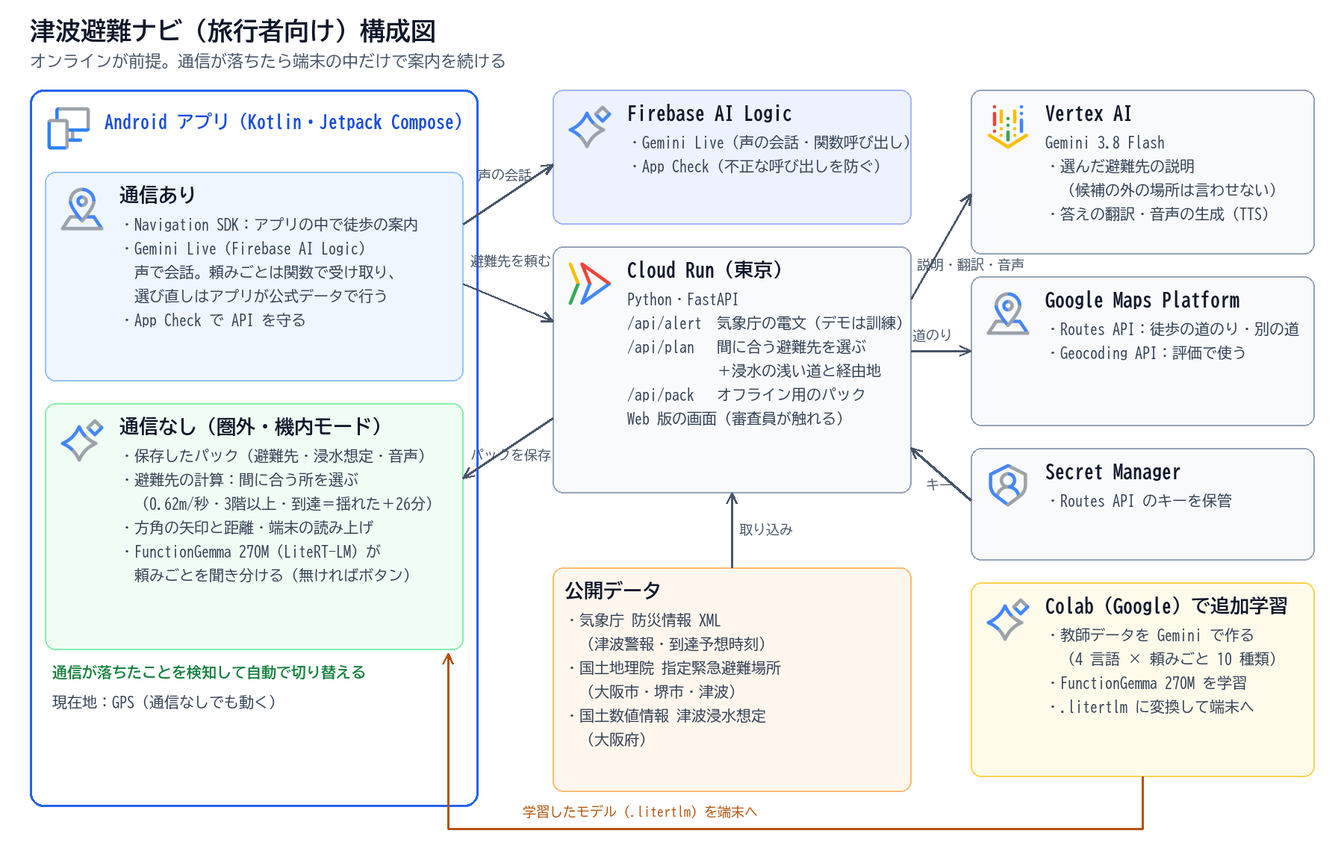
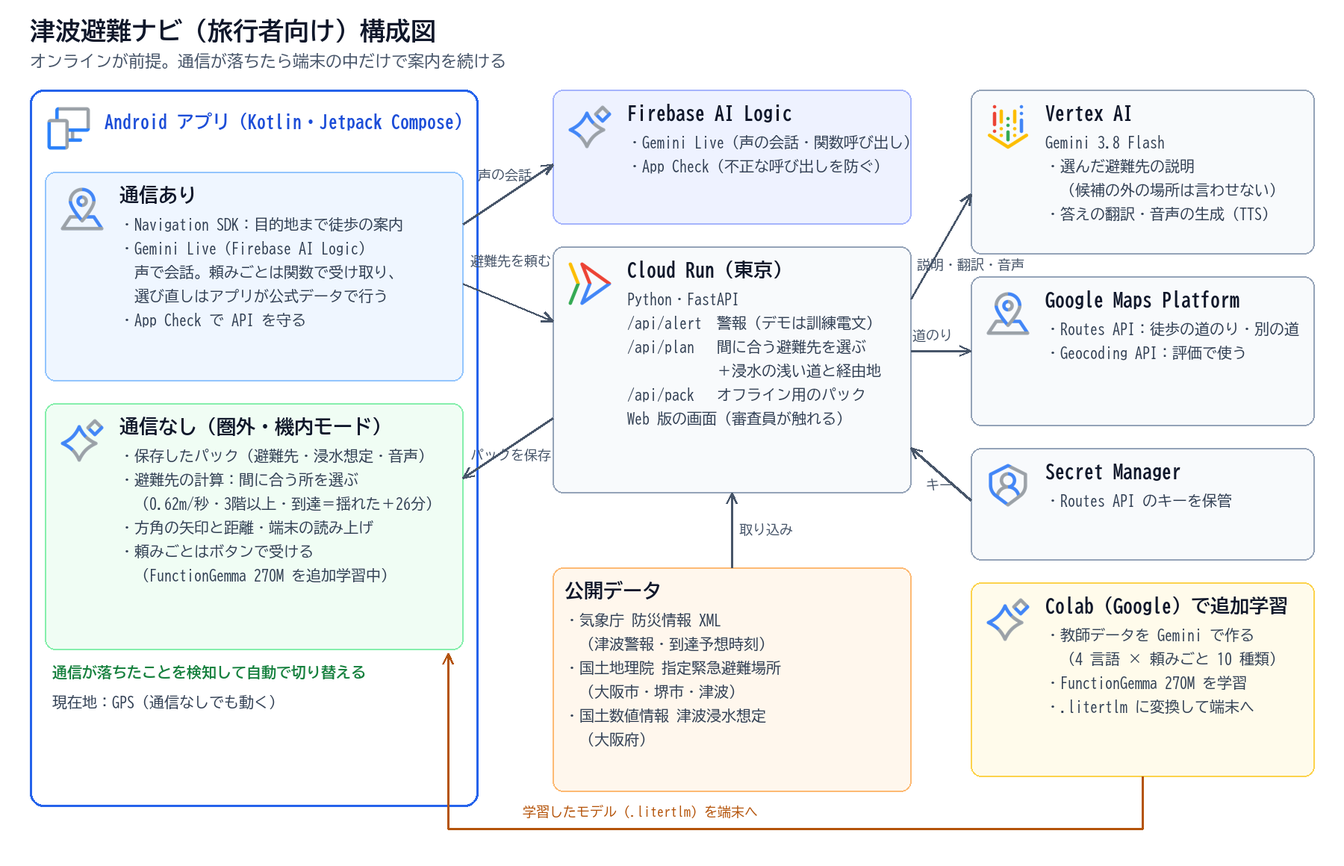
docs: 使い方ごとの動き（modes.md）・FunctionGemma の評価の物差しと採点プログラム・資料と構成図を実際の中身に合わせる

Changed region(s): [[0.0933, 0.6207, 0.3111, 0.6828], [0.5289, 0.3414, 0.6533, 0.4034], [0.1867, 0.2483, 0.3111, 0.2793]]

diff --git a/backend/finetune/score.py b/backend/finetune/score.py
@@ -1,0 +1,123 @@
+"""FunctionGemma の予測を採点する（docs/finetune-eval.md の物差し）。採点の仕方は変えない。学習する人は予測のファイルを出すだけ。
+
+使い方（backend/ で）:
+  python -m finetune.score finetune/data/test.jsonl predictions.jsonl
+  python -m finetune.score finetune/data/test.jsonl --baseline      # キーワード方式（比べる相手）だけを採点
+
+predictions.jsonl は test.jsonl と同じ順・同じ行数で、1 行 = {"name": "reselect", "args": {"mobility": "slow"}, "latency_ms": 820}
+（name が読めなかった時は null。latency_ms はタブレットで測った時だけ入れる）
+"""
+import json
+import re
+import sys
+from collections import defaultdict
+
+THRESHOLDS = {
+    "overall": 0.90,
+    "per_label": 0.85,
+    "per_lang": 0.85,
+    "critical_max": 0.02,
+    "false_action_max": 0.03,
+    "parse_fail_max": 0.01,
+    "p95_latency_ms": 3000,
+}
+CRITICAL_GOLD = {("reselect", "slow"), ("reselect", "wheelchair"), ("injured", None), ("road_blocked", None)}
+
+KEYWORDS = [
+    ("reselect", {"mobility": "wheelchair"}, r"wheelchair|stroller|pram|cane|stairs|車いす|車椅子|ベビーカー|杖|階段|轮椅|婴儿车|楼梯|휠체어|유모차|계단"),
+    ("reselect", {"mobility": "slow"}, r"can'?t (walk|run)|cannot (walk|run)|slow|elderly|old|child|kid|baby|pregnan|走れ|歩けな|遅い|子ども|子供|高齢|妊娠|走不|走不动|老人|孩子|慢|못 (걷|뛰)|느려|아이|노인|임신"),
+    ("road_blocked", {}, r"block|closed|flood|can'?t pass|ふさが|塞が|通れ|冠水|堵|过不去|淹|막혔|못 지나|침수"),
+    ("ask_floor", {}, r"floor|how high|upstairs|何階|どこまで上|几楼|多高|몇 층|얼마나 높"),
+    ("lost_family", {}, r"lost|can'?t find|separated|missing|はぐれ|見つから|いない|走散|找不到|잃어|못 찾|헤어"),
+    ("injured", {}, r"injur|hurt|bleed|blood|pain|sick|けが|怪我|血|痛|具合|受伤|流血|疼|다쳤|피|아파"),
+    ("when_to_return", {}, r"go back|return|hotel|luggage|how long|戻|帰|荷物|いつまで|回去|行李|多久|돌아가|짐|언제까지"),
+    ("repeat", {}, r"again|repeat|didn'?t (hear|understand)|pardon|what\?|もう一度|聞こえ|分から|再说|没听|다시|못 들"),
+    ("reselect", {"mobility": "normal"}, r"another|other place|somewhere else|different|full|crowded|別の|他の|混ん|满|别的|其他|다른|붐"),
+]
+
+
+def keyword_baseline(text: str) -> tuple[str, dict]:
+    low = text.lower()
+    for name, args, pattern in KEYWORDS:
+        if re.search(pattern, low):
+            return name, args
+    return "other", {}
+
+
+def mobility(name: str | None, args: dict | None) -> str | None:
+    return (args or {}).get("mobility") if name == "reselect" else None
+
+
+def score(gold: list[dict], preds: list[dict]) -> dict:
+    assert len(gold) == len(preds), f"行数が違う: test {len(gold)} / 予測 {len(preds)}"
+    by_label, by_lang = defaultdict(list), defaultdict(list)
+    critical = false_action = parse_fail = 0
+    n_critical_gold = n_other_gold = 0
+    latencies = []
+    for g, p in zip(gold, preds):
+        pname, pargs = p.get("name"), p.get("args") or {}
+        ok = pname == g["name"] and pargs == g["args"]
+        label = g["name"] + (f"({g['args']['mobility']})" if g["args"] else "")
+        by_label[label].append(ok)
+        by_lang[g["lang"]].append(ok)
+        if not pname:
+            parse_fail += 1
+        gkey = (g["name"], mobility(g["name"], g["args"]))
+        if gkey in CRITICAL_GOLD:
+            n_critical_gold += 1
+            if pname == "other" or (pname == "reselect" and mobility(pname, pargs) == "normal"):
+                critical += 1
+        if g["name"] == "other":
+            n_other_gold += 1
+            if pname not in (None, "other", "repeat"):
+                false_action += 1
+        if p.get("latency_ms") is not None:
+            latencies.append(p["latency_ms"])
+    all_ok = [x for v in by_lang.values() for x in v]
+    latencies.sort()
+    p95 = latencies[int(0.95 * (len(latencies) - 1))] if latencies else None
+    return {
+        "overall": sum(all_ok) / len(all_ok),
+        "per_label": {k: sum(v) / len(v) for k, v in sorted(by_label.items())},
+        "per_lang": {k: sum(v) / len(v) for k, v in sorted(by_lang.items())},
+        "critical_rate": critical / max(1, n_critical_gold),
+        "false_action_rate": false_action / max(1, n_other_gold),
+        "parse_fail_rate": parse_fail / len(gold),
+        "p95_latency_ms": p95,
+        "n": len(gold),
+    }
+
+
+def report(name: str, r: dict, baseline: dict | None) -> str:
+    t = THRESHOLDS
+    mark = lambda ok: "OK" if ok else "NG"
+    lines = [f"## {name}（{r['n']} 件）", "", "| 指標 | 値 | 成功の線 | 判定 |", "|---|---|---|---|"]
+    lines.append(f"| 正答率（全体） | {r['overall']:.1%} | {t['overall']:.0%} 以上・キーワード方式より上 | "
+                 f"{mark(r['overall'] >= t['overall'] and (baseline is None or r['overall'] > baseline['overall']))} |")
+    worst_label = min(r["per_label"].items(), key=lambda kv: kv[1])
+    lines.append(f"| 頼みごとごと（一番低いもの） | {worst_label[0]} {worst_label[1]:.1%} | どれも {t['per_label']:.0%} 以上 | {mark(worst_label[1] >= t['per_label'])} |")
+    worst_lang = min(r["per_lang"].items(), key=lambda kv: kv[1])
+    lines.append(f"| 言語ごと（一番低いもの） | {worst_lang[0]} {worst_lang[1]:.1%} | どれも {t['per_lang']:.0%} 以上 | {mark(worst_lang[1] >= t['per_lang'])} |")
+    lines.append(f"| 危ない間違い | {r['critical_rate']:.1%} | {t['critical_max']:.0%} 以下 | {mark(r['critical_rate'] <= t['critical_max'])} |")
+    lines.append(f"| 関係ない言葉で動いてしまう | {r['false_action_rate']:.1%} | {t['false_action_max']:.0%} 以下 | {mark(r['false_action_rate'] <= t['false_action_max'])} |")
+    lines.append(f"| 形の崩れ | {r['parse_fail_rate']:.1%} | {t['parse_fail_max']:.0%} 以下 | {mark(r['parse_fail_rate'] <= t['parse_fail_max'])} |")
+    lat = r["p95_latency_ms"]
+    lines.append(f"| 速さ（遅いほうから 5%） | {'未計測' if lat is None else f'{lat:.0f} ms'} | {t['p95_latency_ms']} ms 以内 | {'—' if lat is None else mark(lat <= t['p95_latency_ms'])} |")
+    lines += ["", "頼みごとごと: " + " / ".join(f"{k} {v:.0%}" for k, v in r["per_label"].items()),
+              "言語ごと: " + " / ".join(f"{k} {v:.0%}" for k, v in r["per_lang"].items()), ""]
+    return "\n".join(lines)
+
+
+def main() -> None:
+    gold = [json.loads(l) for l in open(sys.argv[1], encoding="utf-8")]
+    base_preds = [dict(zip(("name", "args"), keyword_baseline(g["text"]))) for g in gold]
+    base = score(gold, base_preds)
+    out = [report("キーワード方式（比べる相手）", base, None)]
+    if len(sys.argv) > 2 and sys.argv[2] != "--baseline":
+        preds = [json.loads(l) for l in open(sys.argv[2], encoding="utf-8")]
+        out.append(report("FunctionGemma", score(gold, preds), base))
+    print("\n".join(out))
+
+
+if __name__ == "__main__":
+    main()

diff --git a/backend/finetune/make_notebook.py b/backend/finetune/make_notebook.py
@@ -95,7 +95,7 @@ def evaluate(model, tok, ds, label):
         t0 = time.time()
         out = pipe(x["prompt"], max_new_tokens=48, do_sample=False, skip_special_tokens=False)[0]["generated_text"][len(x["prompt"]):]
         name, args = parse_call(out)
-        rows.append({"lang": x["lang"], "ok": name == x["name"] and json.dumps(args, sort_keys=True) == x["args"],
+        rows.append({"lang": x["lang"], "name": name, "args": args, "ok": name == x["name"] and json.dumps(args, sort_keys=True) == x["args"],
                      "expected": f'{x["name"]} {x["args"]}', "got": f"{name} {args}", "sec": time.time() - t0})
     df = pd.DataFrame(rows)
     print(label, "全体の正答率:", round(df.ok.mean() * 100, 1), "%")
@@ -148,6 +148,11 @@ print("1 件あたりの時間（Colab の GPU）:", round(trained_df.sec.mean()
 print("\\n間違えた例（学習後）")
 print(trained_df[~trained_df.ok].head(20).to_string())
 table.to_csv("accuracy_by_lang.csv")
+# backend/finetune/score.py で採点するための予測（test.jsonl と同じ順）
+with open("predictions.jsonl", "w", encoding="utf-8") as f:
+    for r in trained_df.itertuples():
+        f.write(json.dumps({"name": r.name, "args": r.args}, ensure_ascii=False) + "
+")
 trained_df.to_json("trained_eval.json", force_ascii=False)"""),
     ("md", "## 7. スマホで動く形（.litertlm）に変換して Google ドライブに保存"),
     ("code", """!pip uninstall -y tensorflow
@@ -200,7 +205,7 @@ print(os.listdir(out_dir))"""),
 drive.mount('/content/drive')
 !mkdir -p /content/drive/MyDrive/tsunami-navi/
 !cp /content/litertlm/*.litertlm /content/drive/MyDrive/tsunami-navi/
-!cp accuracy_by_lang.csv trained_eval.json /content/drive/MyDrive/tsunami-navi/
+!cp accuracy_by_lang.csv trained_eval.json predictions.jsonl /content/drive/MyDrive/tsunami-navi/
 !ls -la /content/drive/MyDrive/tsunami-navi/"""),
     ("md", "終わったら、Google ドライブの `tsunami-navi` フォルダ（`.litertlm`・正答率の表）を Claude Code に知らせる。"),
 ]

diff --git a/docs/tools/make_architecture.py b/docs/tools/make_architecture.py
@@ -61,7 +61,7 @@ d.rounded_rectangle((40, 120, 640, 1080), radius=18, outline="#2563EB", width=3)
 icon("mobile", 56, 136)
 d.text((140, 150), "Android アプリ（Kotlin・Jetpack Compose）", font=f(24, True), fill="#1D4ED8")
 box(60, 230, 560, 280, "通信あり", [
-    "・Navigation SDK：アプリの中で徒歩の案内",
+    "・Navigation SDK：目的地まで徒歩の案内",
     "・Gemini Live（Firebase AI Logic）",
     "　声で会話。頼みごとは関数で受け取り、",
     "　選び直しはアプリが公式データで行う",
@@ -72,8 +72,8 @@ box(60, 540, 560, 330, "通信なし（圏外・機内モード）", [
     "・避難先の計算：間に合う所を選ぶ",
     "　（0.62m/秒・3階以上・到達＝揺れた＋26分）",
     "・方角の矢印と距離・端末の読み上げ",
-    "・FunctionGemma 270M（LiteRT-LM）が",
-    "　頼みごとを聞き分ける（無ければボタン）",
+    "・頼みごとはボタンで受ける",
+    "　（FunctionGemma 270M を追加学習中）",
 ], key="ai", fill="#F0FDF4", edge="#86EFAC")
 d.text((70, 890), "通信が落ちたことを検知して自動で切り替える", font=f(20, True), fill="#15803D")
 d.text((70, 930), "現在地：GPS（通信なしでも動く）", font=f(20), fill="#334155")
@@ -81,7 +81,7 @@ d.text((70, 930), "現在地：GPS（通信なしでも動く）", font=f(20), f
 # Cloud Run（中央）
 box(740, 330, 480, 330, "Cloud Run（東京）", [
     "Python・FastAPI",
-    "/api/alert  気象庁の電文（デモは訓練）",
+    "/api/alert  警報（デモは訓練電文）",
     "/api/plan   間に合う避難先を選ぶ",
     "            ＋浸水の浅い道と経由地",
     "/api/pack   オフライン用のパック",

diff --git a/docs/submission/product-doc.md b/docs/submission/product-doc.md
@@ -15,14 +15,14 @@
 - 災害時は通信がつながりにくくなる。能登半島地震（2024年）では最大 839 の携帯基地局が止まった。データ通信を持たない旅行者もいる
 
 ## 4. 解決策（何ができるか）
-警報が出たとき、旅行者の今いる場所から、**市町村が決めた津波の避難場所のうち、間に合う所**を選び、母語の声で案内する。通信が落ちても、端末の中だけで案内を続ける。
+強い揺れを感じた時や警報が出た時、旅行者の今いる場所から、**市町村が決めた津波の避難場所のうち、間に合う所**を選び、英語の声と画面で案内する（画面は英語＋日本語。Gemini Live では相手の言語で話せる）。通信が落ちても、端末の中だけで案内を続ける。使い方ごとの動きは docs/modes.md
 
 | 場面 | できること |
 |---|---|
 | 旅行の前（宿の Wi-Fi） | 行き先（大阪湾岸）のデータ一式を端末に保存（避難先 2,335 件・浸水想定・答えの音声、約 1MB） |
-| 警報（通信あり） | 気象庁の到達予想時刻と、Routes API の道のりから「間に合う避難先」を選ぶ。浸水想定の深い所を避けた道を選び、Navigation SDK でアプリの中で徒歩の案内【Navigation SDK は実装中】。Gemini Live に話しかけると、選び直しや質問に声で答える |
+| 警報（通信あり） | アプリが 15 秒ごとに警報を確かめ、出ていれば自動で案内を始める（デモは気象庁の訓練電文の流し直し）。到達予想時刻と Routes API の道のりから「間に合う避難先」を選ぶ。Navigation SDK でアプリの中で目的地まで徒歩の案内。Gemini Live に話しかけると、選び直しや質問に声で答える |
 | 圏外・機内モード | 「揺れた」ボタンだけで、保存したデータから 3 秒以内に避難先を出し、方角の矢印と距離、声で案内する。到達時刻は「揺れた時刻＋26 分」（大阪府の想定で一番早い値）を目安に使う |
-| 困ったとき | 「子どもが走れない」と言うと、歩く速さを 0.5m/秒にして、近い避難ビルに選び直す。圏外では、端末の中の小さい AI（FunctionGemma を追加学習）かボタンで受ける |
+| 困ったとき | 「子どもが走れない」と言うと（またはボタン）、歩く速さを 0.5m/秒にして、近い避難ビルに選び直す。圏外ではボタンで受ける（端末の中の小さい AI＝FunctionGemma を追加学習中。評価の物差しは docs/finetune-eval.md） |
 
 決めごと（安全のため）
 - 避難先を AI に決めさせない。名前・場所・階は公式データの値だけを使い、AI は説明と頼みごとの聞き分けだけをする
@@ -36,8 +36,8 @@
 | Vertex AI（Gemini 3.8 Flash） | 選んだ避難先の説明・答えの翻訳・音声の生成 | 候補の外の場所を言わせない作り（候補の id 以外を使ったら捨てて決まった文にする）。AI Studio ではなく Vertex AI にしたのは、GCP のクレジットが効き、キーをアプリに置かないため |
 | Firebase AI Logic（Gemini Live）＋ App Check | 通信がある時の声の会話。頼みごとは関数で受け取り、アプリが公式データで選び直した結果だけを話す | アプリから直接、低い遅れで声の会話ができる。キーを埋めず App Check で守れる。比べた案：Cloud Run の中継（遅れが増える） |
 | Routes API | 徒歩の道のり・別の候補の道。浸水想定の深い所を通らない道を選ぶ | 直線距離では「間に合うか」を誤る。既存の避難アプリ（広島市・三重県・横浜市）は道順と浸水の地図の重ね表示までで、浸水を避けて道を選ぶものは見つからなかった |
-| Navigation SDK | 通信がある時のアプリの中の徒歩の案内【実装中】 | Google マップに移ると会話が途切れ、事前の地域データも渡せない。案内開始時に 15〜20 分ぶんの経路を保存するので、途中で圏外になっても続く見込み |
-| FunctionGemma 270M ＋ LiteRT-LM | 圏外の時、端末の中で頼みごとを聞き分ける | 圏外では Gemini が使えない。仕事は「8 種類の頼みごとから選ぶ」だけなので小さいモデルで足り、多くの旅行者のスマホで動く（Gemma 4 E2B 約 2.5GB は多くの端末で動かない）。Gemini で 4 言語の学習データを作って追加学習した |
+| Navigation SDK | 通信がある時のアプリの中の徒歩の案内（目的地まで。浸水の浅い道を経由地で渡すのは今後） | Google マップに移ると会話が途切れ、事前の地域データも渡せない。案内開始時に 15〜20 分ぶんの経路を保存するので、途中で圏外になっても続く見込み |
+| FunctionGemma 270M ＋ LiteRT-LM | 圏外の時、端末の中で頼みごとを聞き分ける（追加学習中。今のアプリはボタン） | 圏外では Gemini が使えない。仕事は「8 種類の頼みごとから選ぶ」だけなので小さいモデルで足り、多くの旅行者のスマホで動く（Gemma 4 E2B 約 2.5GB は多くの端末で動かない）。Gemini で 4 言語の学習データを作って追加学習した |
 | Secret Manager | Routes API のキーの保管 | キーをコードに置かない |
 
 ## 6. AI をどの場面でどう使ったか・なぜその場面か（必須記入）

diff --git a/docs/finetune-eval.md b/docs/finetune-eval.md
@@ -1,0 +1,55 @@
+# FunctionGemma の評価の物差し（追加学習の担当向け）
+
+最終更新: 2026-11-09。学習のやり方（データを足す・回数を変える・モデルを変える）は自由。**物差しはこのファイルと `backend/finetune/score.py` で固定**し、何度やり直しても同じ方法で比べる。
+
+## 1. 何をできるようにするか
+圏外の時、旅行者が慌てて話す一言（英語・中国語・韓国語・日本語）を、アプリの頼みごと（関数）に聞き分ける。避難先を選ぶのはアプリ（公式データ）で、モデルは選ばない。
+
+| 関数 | 引数 | 例 |
+|---|---|---|
+| reselect | mobility = normal / slow / wheelchair | 別の場所は？／子どもが走れない／車いす |
+| ask_floor | なし | 何階まで上がる？ |
+| road_blocked | なし | 道がふさがっている |
+| lost_family | なし | 家族とはぐれた |
+| injured | なし | けがをした |
+| when_to_return | なし | いつ戻っていい？ |
+| repeat | なし | もう一度言って |
+| other | なし | 関係ない言葉 |
+
+## 2. 決まり
+| 決まり | 理由 |
+|---|---|
+| `backend/finetune/data/test.jsonl`（400 件）は**学習に使わない・中身を見て学習データを寄せない** | 使うと覚えただけで点が上がる |
+| 採点は `score.py` だけで行う。採点の仕方を変える時はチームで決めて、このファイルを直す | 毎回同じ物差しにする |
+| 比べる相手は**キーワード方式**（`score.py` に入っている）。これより良くないなら AI を使う意味が無い | 単純な方法で足りるなら、そちらを使う |
+| 学習データを足す時は、テストと別の言い方（別の指示）で作る | テストに寄せないため |
+| 追加: **人が書いたテスト**（チームで 50 件ほど、実際にスマホの音声入力を通した文）を `test_human.jsonl` に作る | Gemini が作った文だけで測ると、Gemini の癖に合わせただけになる |
+
+## 3. 指標と成功の線
+| 指標 | 中身 | 成功の線 |
+|---|---|---|
+| 正答率（全体） | 関数の名前と引数が両方合った割合 | **90% 以上**、かつキーワード方式より上 |
+| 頼みごとごと | 10 種類（reselect は引数ごと）それぞれの正答率 | どれも **85% 以上** |
+| 言語ごと | en / zh / ko / ja それぞれ | どれも **85% 以上** |
+| **危ない間違い** | 「走れない・車いす・けが・道がふさがった」を other か reselect(normal) にした割合 | **2% 以下** |
+| 関係ない言葉で動いてしまう | 正解が other なのに、選び直しなどをした割合 | **3% 以下** |
+| 形の崩れ | 出力から関数が読めなかった割合 | **1% 以下** |
+| 速さ | タブレットでの 1 回の返事。遅いほうから 5% の値 | **3,000 ms 以内** |
+| 大きさ | `.litertlm` のファイル | **300 MB 以下** |
+
+**今のキーワード方式の点（2026-11-09）**: 全体 70.5%／一番低い頼みごと lost_family 50%／一番低い言語 ko 66%／危ない間違い 15%／関係ない言葉で動く 10%
+
+## 4. 採点のしかた
+1. Colab で、テストの 400 件に予測を出して `predictions.jsonl` に保存する（test.jsonl と同じ順・同じ行数）
+   - 1 行 = `{"name": "reselect", "args": {"mobility": "slow"}}`。読めなかった時は `{"name": null, "args": {}}`
+   - タブレットで測る時は `"latency_ms": 820` を足す
+2. `backend/` で次を動かす
+   ```
+   python -X utf8 -m finetune.score finetune/data/test.jsonl predictions.jsonl
+   ```
+3. 出た表（キーワード方式と並ぶ）をそのまま報告する。全部「OK」なら成功
+
+## 5. 報告してほしいこと
+- 上の表（Colab の GPU で測ったもの。できればタブレットで測った速さも）
+- 何を変えたか（データの件数・学習の回数・学習率など）
+- 間違えた例を 10 件ほど

diff --git a/docs/modes.md b/docs/modes.md
@@ -1,0 +1,35 @@
+# 使い方ごとの動き（オンライン・オフライン・Web・アプリ）
+
+最終更新: 2026-11-09。アプリ・サーバー・資料・デモはこのルールに合わせる。
+
+## 1. 4 つの使い方
+| | Web（審査員が触る） | Android・通信あり | Android・通信なし |
+|---|---|---|---|
+| 始まり | 「揺れた（現在地）」か地点のボタン | 15 秒ごとに警報を確かめ、出ていれば自動で開始／「揺れた」ボタン | 「揺れた」ボタン |
+| 避難先を選ぶ | サーバー（Routes API の道のり） | 端末ですぐ選ぶ → サーバーの答えが 2 分以上短ければ乗り換えて声で知らせる | 端末（直線距離 × 1.3） |
+| 選び直し | サーバー | サーバー（失敗したら端末） | 端末 |
+| 到達時刻 | 下の「時刻の順番」 | 同じ | 同じ |
+| 道案内 | 「Google マップで開く」 | Navigation SDK（目的地まで徒歩）＋矢印と距離 | 矢印と距離 |
+| 会話 | 無し | Gemini Live（頼みごとは関数で受け、アプリが選び直す） | ボタン（FunctionGemma は担当が学習中） |
+| 声 | 無し | 読み上げ・ナビの声・Live。**Live 中は他を止める** | 読み上げ・保存した音声 |
+| 言語 | 英語・日本語 | 画面と読み上げは英語（日本語の補足）。Live は相手の言語 | 同じ（Live 以外） |
+
+## 2. ルール
+1. **避難先は最初に出したものを守る**。サーバーの答えに乗り換えるのは、歩く時間が 2 分以上短い時だけ。乗り換えたら声で知らせる
+2. **時刻の順番**: 気象庁の到達予想時刻（サーバーが受け取っている警報）＞ 端末が前に受け取った到達予想時刻 ＞ 「揺れた」を押した時刻＋26 分 ＞ 今＋26 分。端末でもサーバーでも同じ
+3. **選び直しの計算は 1 か所**: 通信があればサーバー、無ければ端末
+4. **声は 1 つずつ**: Gemini Live が話している間は、ナビの声・読み上げ・保存した音声を止める
+5. **通信が戻ったら警報だけ取り直す**。避難先はルール 1 に従う
+6. **Web は通信ありだけ**。審査員が流れを確かめる入口
+
+## 3. 切り替わる時
+| 切り替わり | 動き |
+|---|---|
+| 通信あり → なし | 「Switched to offline mode」と出す。Gemini Live は止める。Navigation SDK は保存した 15〜20 分の経路で続く見込み（O3 で確認）。矢印と距離は常に出ている |
+| 通信なし → あり | 警報を取り直す（受け取れば到達時刻を更新）。避難先はルール 1 |
+
+## 4. まだ無いもの（資料では「今後」と書く）
+- 気象庁の本物の電文を 1 分ごとに取りに行くこと（今は訓練電文の流し直しだけ。電文の形は同じ）
+- 浸水の浅い道を Navigation SDK に経由地として渡すこと（今は目的地だけ。浅い道はサーバーが選んで返している）
+- 端末の中の AI（FunctionGemma）での聞き分け（担当が学習中。docs/finetune-eval.md）
+- 英語・日本語以外の画面

diff --git a/docs/requirements.md b/docs/requirements.md
@@ -7,7 +7,7 @@
 | # | 場面 | 合格の条件（全部満たせば合格） | 担当 | 駄目なら |
 |---|---|---|---|---|
 | 1 | 前日の夜・宿で準備（通信あり） | ①「大阪湾岸」を選ぶと `/api/pack` からデータ一式を取って端末に保存する ② 保存した件数（避難先の数）と大きさが画面に出る ③ 小さいモデルが入っているかが画面に出る | サーバー・Android | 保存済みのパックをアプリに同梱して見せる（字幕で明記） |
-| 2 | 翌朝・堺駅の前・通信あり・警報 | ① `/api/alert/replay` で訓練電文を流すと、アプリが 10 秒以内に通知を出す ② 画面に「訓練」と出る | サーバー・Android | アプリの「警報を受け取る」ボタンで取りに行く |
+| 2 | 翌朝・堺駅の前・通信あり・警報 | ① 訓練電文を流すと、アプリが 15 秒以内に自動で案内を始め「Tsunami warning」と声を出す ② 画面に「Training / 訓練」と出る | サーバー・Android | アプリの「訓練電文を流し直す」ボタン |
 | 2 | 同・避難先と案内 | ① `/api/plan` の第一候補（スーパーホテル堺マリティマ）が出る ② Navigation SDK が**アプリの中で**徒歩の案内を始める ③ 画面に「歩いて約○分・到達予想 ○時○分・間に合う」 | Android | 経由地なしの徒歩案内（V1 が駄目な時） |
 | 3 | 歩きながら Gemini Live に話す | ①「My child can't run」と話すと、英語の声で返事が来る ② 避難先がプロパレス堺駅前ピラーステージ（3階以上）に切り替わり、案内が引き直される | Android | Gemini の文字の返事＋端末の読み上げ（V9 が駄目な時） |
 | 4 | **切り替わる瞬間** | ① 機内モードにしてから 5 秒以内に「オフラインに切り替えました」と出る ② 道案内が止まらない（Navigation SDK の保存済み経路、または矢印と距離） ③ 次の質問を小さいモデル（またはボタン）が受ける | Android | 画面の「オフラインに切り替え」ボタン（字幕で明記） |

diff --git a/docs/submission/copyright-sheet.md b/docs/submission/copyright-sheet.md
@@ -33,7 +33,7 @@
 | Android Jetpack（AndroidX・Compose）・Kotlin・kotlinx（serialization・coroutines） | Android アプリ | Apache 2.0 |
 | Google Play services（位置情報） | 現在地 | Android Software Development Kit License |
 | Firebase Android SDK（AI Logic・App Check） | Gemini Live | Apache 2.0 |
-| Navigation SDK for Android【実装中】 | 徒歩の案内 | Google Maps Platform の利用規約 |
+| Navigation SDK for Android 6.3.0 | 徒歩の案内 | Google Maps Platform の利用規約 |
 | Transformers / TRL / datasets（Hugging Face） | 追加学習 | Apache 2.0 |
 | AI Edge Torch / LiteRT | .litertlm への変換 | Apache 2.0 |
 
